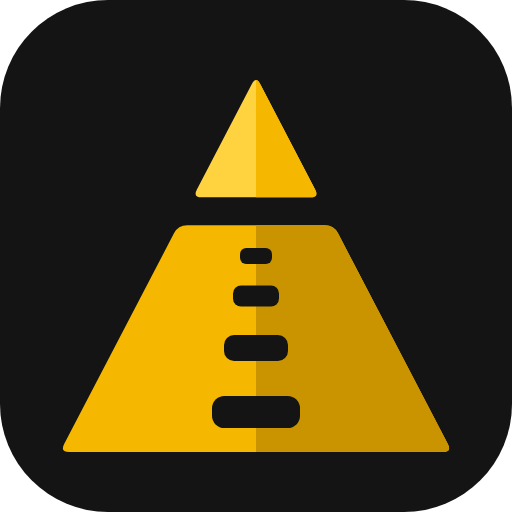
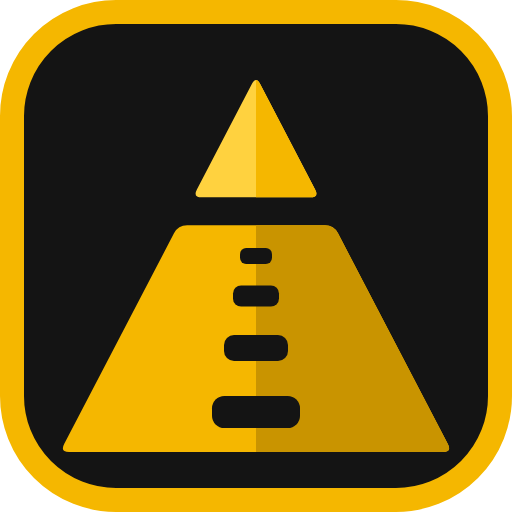
One mark everywhere: the gold-rimmed tile
The logo looked different from place to place: the sidebar drew a faint rim
with CSS, the login page and the lockups had no rim, and the new favicon had
a solid one. Every logo file now carries the same ink tile with a gold rim
and the gold pyramid with its road: the favicon (redrawn for 16px, so it no
longer reads as a warning sign on a dark tab), the apple-touch and push
icons, the sidebar mark and every lockup. The sidebars drop their own rim.

Changed region(s): [[0.0, 0.0, 1.0, 1.0]]

diff --git a/tests/Feature/BrandAssetsTest.php b/tests/Feature/BrandAssetsTest.php
@@ -41,6 +41,32 @@ class BrandAssetsTest extends TestCase
         $this->assertGreaterThan(0, filesize(public_path($path)));
     }
 
+    /**
+     * One mark everywhere: the same ink tile with a gold rim in the browser
+     * tab, the sidebar, the login page and every lockup, so the logo does not
+     * look different from one place to the next.
+     */
+    #[DataProvider('filesShowingTheTile')]
+    public function test_every_logo_uses_the_same_gold_rimmed_tile(string $path): void
+    {
+        $this->assertStringContainsString('fill="#141414" stroke="#F5B700"', file_get_contents(public_path($path)));
+    }
+
+    /** @return array<string, array{0: string}> */
+    public static function filesShowingTheTile(): array
+    {
+        return [
+            'mark' => ['images/brand/capstrack-mark.svg'],
+            'mark, small sizes' => ['images/brand/capstrack-mark-small.svg'],
+            'favicon' => ['favicon.svg'],
+            'logo, dark' => ['images/brand/capstrack-logo.svg'],
+            'logo, light' => ['images/brand/capstrack-logo-light.svg'],
+            'logo, stacked' => ['images/brand/capstrack-logo-stacked.svg'],
+            'logo without tagline, dark' => ['images/brand/capstrack-logo-ui.svg'],
+            'logo without tagline, light' => ['images/brand/capstrack-logo-ui-light.svg'],
+        ];
+    }
+
     /** A real .ico starts with a zero, a zero and the type 1 (icon). */
     public function test_the_favicon_is_a_real_icon_file(): void
     {

diff --git a/resources/views/instructor/partials/sidebar.blade.php b/resources/views/instructor/partials/sidebar.blade.php
@@ -9,7 +9,7 @@
 <div class="sidebar">
   @if(!isset($showBrand) || $showBrand)
     <div class="sidebar-brand">
-      <img src="{{ asset('images/brand/capstrack-mark.svg') }}" alt="" width="42" height="42" style="width:42px;height:42px;border-radius:10px;box-shadow:0 0 0 1px rgba(201,168,44,.25);flex-shrink:0;display:block">
+      <img src="{{ asset('images/brand/capstrack-mark.svg') }}" alt="" width="42" height="42" style="width:42px;height:42px;border-radius:10px;flex-shrink:0;display:block">
       <div>
         <div class="brand-name"><img src="{{ asset('images/brand/capstrack-wordmark.svg') }}" alt="CapsTrack" style="height:15px;width:auto;display:block;margin-bottom:3px"></div>
         <div class="brand-sub">Expert Portal</div>

diff --git a/resources/views/capsa/_sidebar.blade.php b/resources/views/capsa/_sidebar.blade.php
@@ -116,7 +116,7 @@
 @include('partials.portal-nav-icons')
 <div class="sidebar">
   <div class="sidebar-brand">
-    <img src="{{ asset('images/brand/capstrack-mark.svg') }}" alt="" width="42" height="42" style="width:42px;height:42px;border-radius:10px;box-shadow:0 0 0 1px rgba(201,168,44,.25);flex-shrink:0;display:block">
+    <img src="{{ asset('images/brand/capstrack-mark.svg') }}" alt="" width="42" height="42" style="width:42px;height:42px;border-radius:10px;flex-shrink:0;display:block">
     <div>
       <div class="brand-name"><img src="{{ asset('images/brand/capstrack-wordmark.svg') }}" alt="CapsTrack" style="height:15px;width:auto;display:block;margin-bottom:3px"></div>
       <div class="brand-sub">{{ $portalLabel }}</div>

diff --git a/resources/views/student/partials/sidebar.blade.php b/resources/views/student/partials/sidebar.blade.php
@@ -63,7 +63,7 @@
 <div class="sidebar">
   <div class="sidebar-brand">
     <div class="brand-badge">
-      <img src="{{ asset('images/brand/capstrack-mark.svg') }}" alt="" width="42" height="42" style="width:42px;height:42px;border-radius:10px;box-shadow:0 0 0 1px rgba(201,168,44,.25);flex-shrink:0;display:block">
+      <img src="{{ asset('images/brand/capstrack-mark.svg') }}" alt="" width="42" height="42" style="width:42px;height:42px;border-radius:10px;flex-shrink:0;display:block">
       <div>
         <div class="brand-name"><img src="{{ asset('images/brand/capstrack-wordmark.svg') }}" alt="CapsTrack" style="height:15px;width:auto;display:block;margin-bottom:3px"></div>
         <div class="brand-sub">Student Portal</div>
